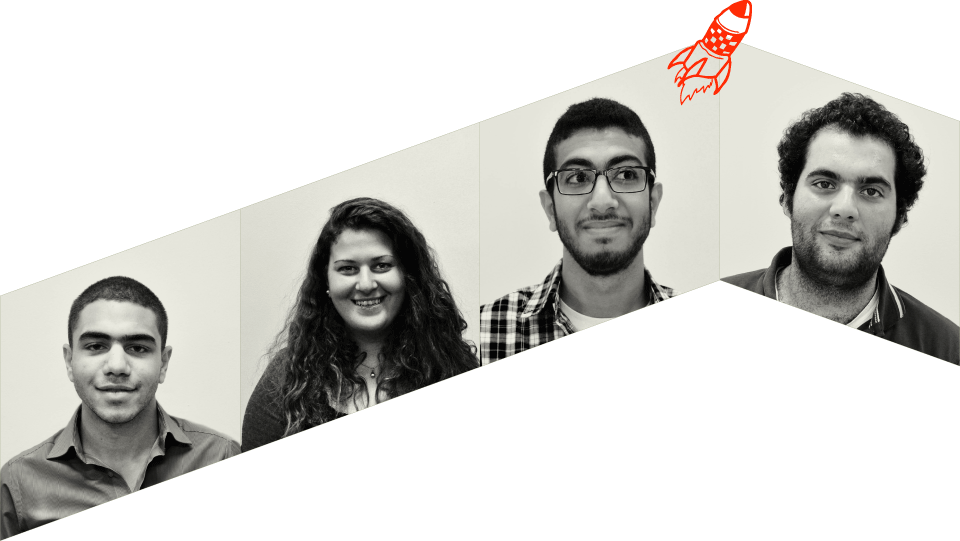
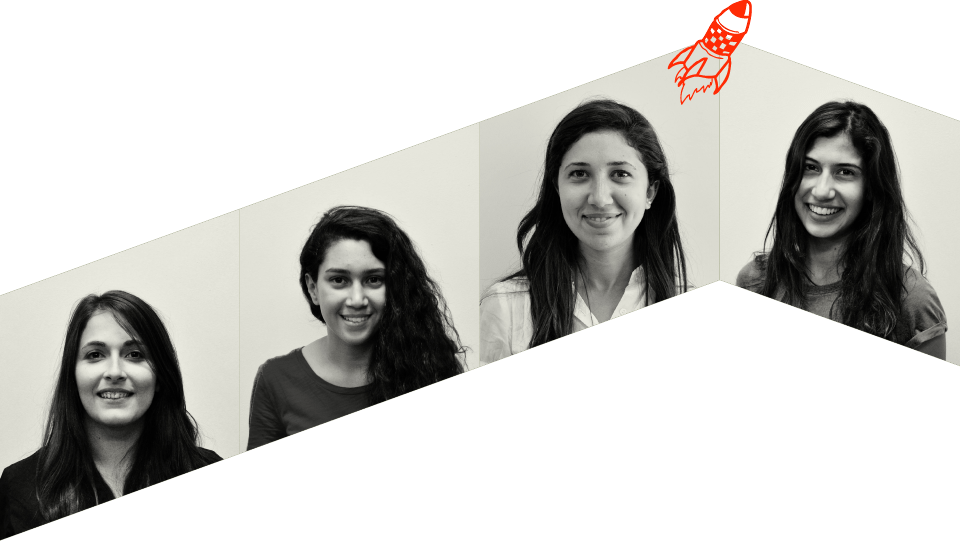
Changes to FR team members

diff --git a/css/style.css b/css/style.css
@@ -590,6 +590,18 @@ html.ie8 .instructions, html.ie7 .instructions,html.ie6 .instructions {
 		text-transform: uppercase;
 	}
 	
+	#hr {
+		margin-top: 60px;
+	}
+	
+	#mm {
+		margin-top: -40px;
+	}
+	
+	#pr {
+		margin-top: 0px;
+	}
+	
 	
 	
 	.members {

diff --git a/protected/views/site/team.php b/protected/views/site/team.php
@@ -2,37 +2,11 @@
 $this->pageTitle=Yii::app()->name . ' - Team';
 ?>
 <section class="team main-container">			
-	<h3>Fundraising <br/> &amp; Logistics</h3>
+	<h3 id="fr">Fundraising <br/> &amp; Logistics</h3>
 
 	<!--4 Images-->
 
 	<div class="members firstMemberList">
-
-		<div class="names1">
-			<h5 class="firstName">Ahmed El Riedy</h5>
-			<h5 class="secondName">Amira El-Shawarby</h5>
-			<h5 class="thirdName">Ahmed Dawood</h5>
-		</div>
-
-		<div class="names2">
-			<h5 class="fourthName">Ammar Monir</h5>
-		</div>
-
-		<img class="firstImage" src="img/team/fr/fr1.png" />	
-
-		<div class="titles1">
-			<h4 class="firstTitle">Member</h4>
-			<h4 class="secondTitle">Member</h4>
-			<h4 class="thirdTitle">Head</h4>
-		</div>
-
-		<div class="titles2">
-			<h4 class="fourthTitle">Member</h4>
-		</div>
-
-	</div>
-
-	<div class="members">
 
 		<div class="names1">
 			<h5 class="firstName">Caroline Shoushanian</h5>
@@ -41,10 +15,10 @@ $this->pageTitle=Yii::app()->name . ' - Team';
 		</div>
 
 		<div class="names2">
-			<h5 class="fourthName">Rania Ashkar</h5>
+			<h5 class="fourthName">Ammar Monir</h5>
 		</div>
 
-		<img class="firstImage" src="img/team/fr/fr2.png" />	
+		<img class="firstImage" src="img/team/fr/fr1.png" />	
 
 		<div class="titles1">
 			<h4 class="firstTitle">Member</h4>
@@ -64,7 +38,7 @@ $this->pageTitle=Yii::app()->name . ' - Team';
 
 		<div class="names1">
 			<h5 class="firstName">Mai Alaa</h5>
-			<h5 class="secondName">Yasser Zant</h5>
+			<h5 class="secondName">Amira El-Shawarby</h5>
 			<h5 class="thirdName">Mohamed Morsy</h5>
 		</div>
 
@@ -72,11 +46,11 @@ $this->pageTitle=Yii::app()->name . ' - Team';
 			<h5 class="fourthName">Mariam Mohamed</h5>
 		</div>
 
-		<img class="firstImage" src="img/team/fr/fr3.png" />	
+		<img class="firstImage" src="img/team/fr/fr2.png" />	
 
 		<div class="titles1">
 			<h4 class="firstTitle">Member</h4>
-			<h4 class="secondTitle">Vice Head</h4>
+			<h4 class="secondTitle">Member</h4>
 			<h4 class="thirdTitle">Member</h4>
 		</div>
 
@@ -91,25 +65,25 @@ $this->pageTitle=Yii::app()->name . ' - Team';
 	<div class="members">
 
 		<div class="names1">
-			<h5 class="firstName">&nbsp;</h5>
+			<h5 class="firstName">Sherif Hamed</h5>
 			<h5 class="secondName">&nbsp;</h5>
-			<h5 class="thirdName">Marina Wagdy</h5>
+			<h5 class="thirdName">&nbsp;</h5>
 		</div>
 
 		<div class="names2">
-			<h5 class="fourthName">Sherif Hamed</h5>
+			<h5 class="fourthName">&nbsp;</h5>s
 		</div>
 
-		<img class="firstImage" src="img/team/fr/fr4.png" />	
+		<img class="firstImage" src="img/team/fr/fr3.png" />	
 
 		<div class="titles1">
-			<h4 class="firstTitle">&nbsp;</h4>
+			<h4 class="firstTitle">Member</h4>
 			<h4 class="secondTitle">&nbsp;</h4>
-			<h4 class="thirdTitle">Member</h4>
+			<h4 class="thirdTitle">&nbsp;</h4>
 		</div>
 
 		<div class="titles2">
-			<h4 class="fourthTitle">Member</h4>
+			<h4 class="fourthTitle">&nbsp;</h4>
 		</div>
 
 	</div>			
@@ -118,7 +92,7 @@ $this->pageTitle=Yii::app()->name . ' - Team';
 
 
 
-	<h3>Human <br/> Resources</h3>
+	<h3 id="hr">Human <br/> Resources</h3>
 
 
 	<!--4 Images-->
@@ -207,7 +181,7 @@ $this->pageTitle=Yii::app()->name . ' - Team';
 
 
 
-	<h3>Multimedia</h3>
+	<h3 id="mm">Multimedia</h3>
 
 
 	<!--4 Images-->
@@ -268,7 +242,7 @@ $this->pageTitle=Yii::app()->name . ' - Team';
 
 
 
-	<h3>Public Relations <br/> & Marketing</h3>
+	<h3 id="pr">Public Relations <br/> & Marketing</h3>
 
 
 	<!--4 Images-->
